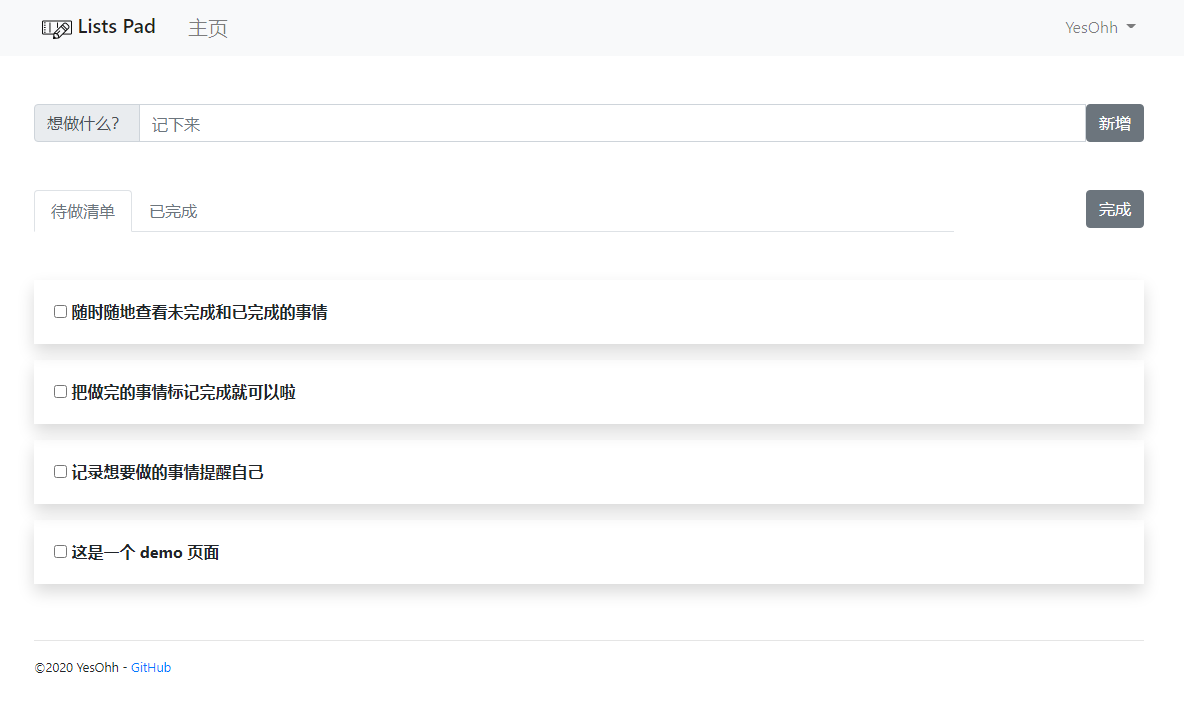
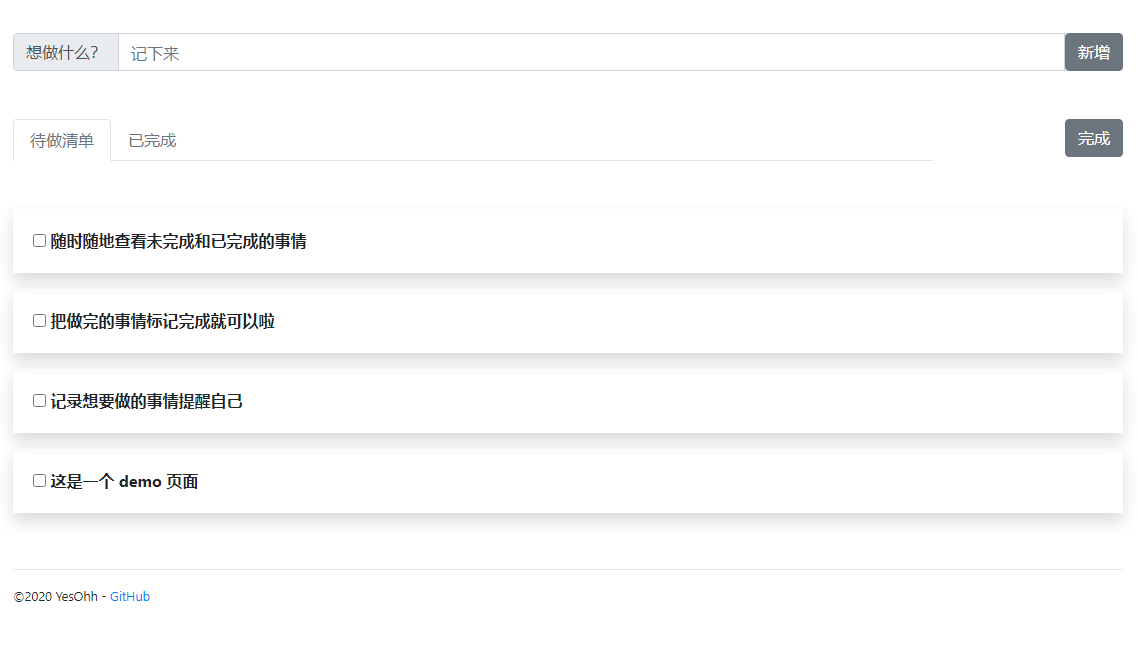
modify header&nav

diff --git a/readme.md b/readme.md
@@ -23,4 +23,6 @@ GoToDo 待做清单
     
 * demo
 
-    ![demo demo](static/images/GoToDo.jpg)
+    ![demo demo](static/images/add.png)
+    
+    ![demo demo](static/images/finished.png)
